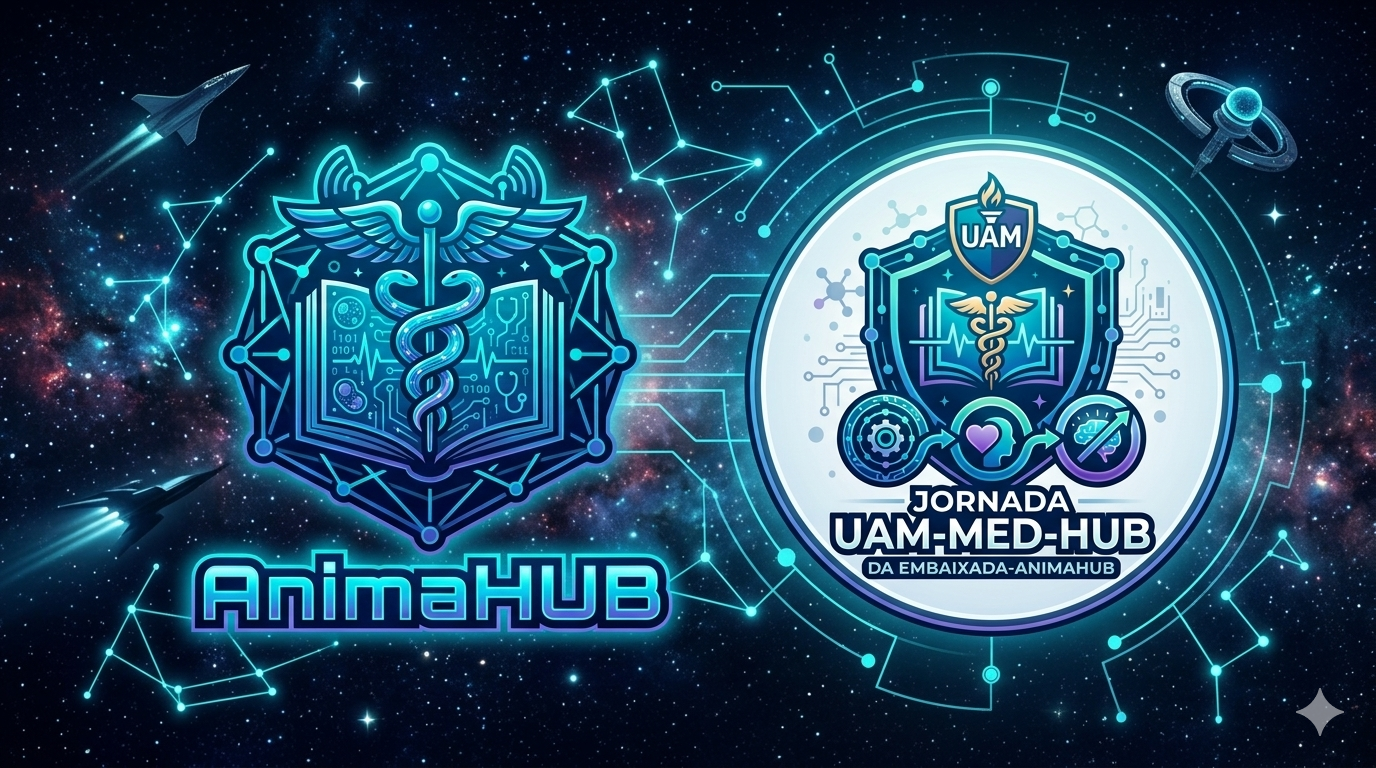
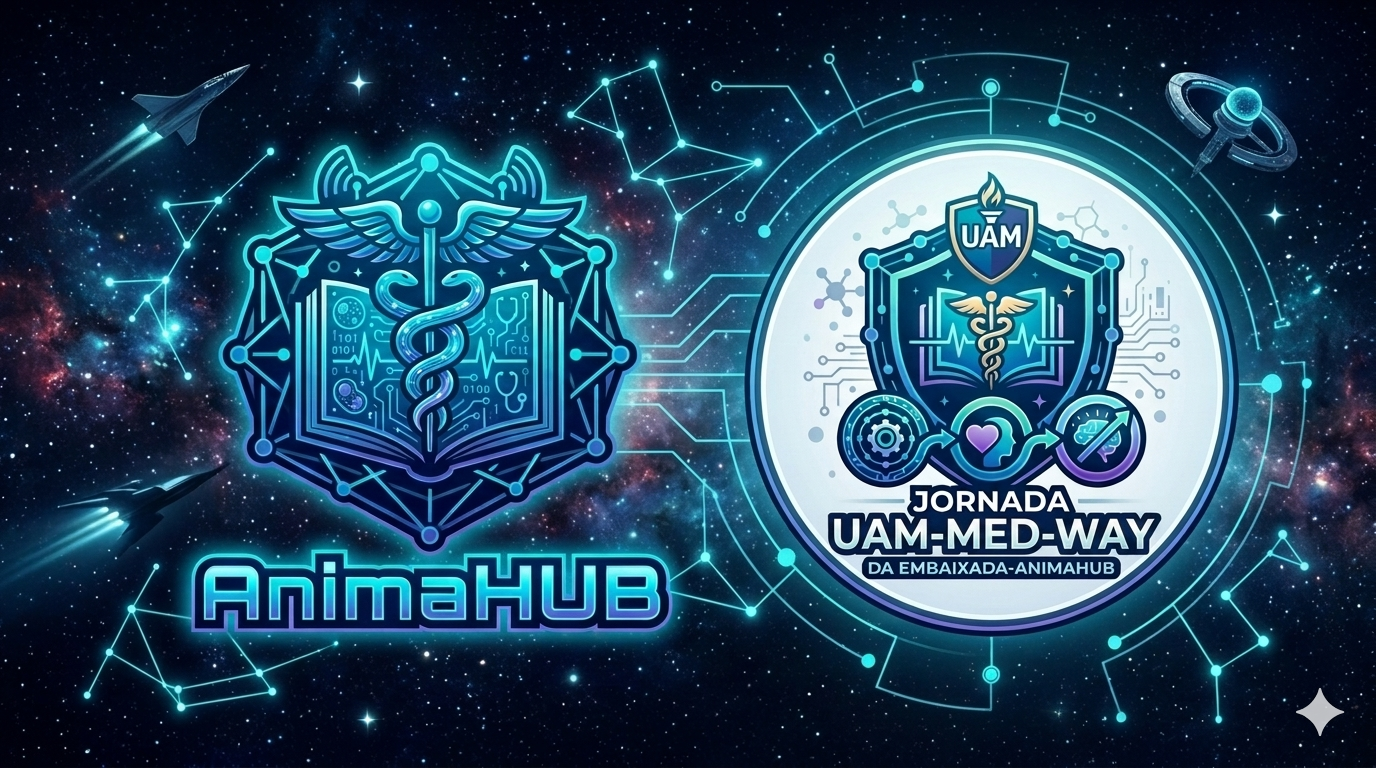
add UAM-MED-WAY more details on README.md

diff --git a/README.md b/README.md
@@ -1,4 +1,25 @@
-![IMAGEM COVER DA JORNADA](UAM-MED-WAY-LOGO.png)
+![IMAGEM COVER DA JORNADA](assets/banners/cover1.png)
 
 ## Overview:
 UAM-MED-WAY é uma coletânea de portfolios em formato de pdf com conhecimento integrativo
+
+## Author:
+Érik Luís Mendonça Botechia de Jesus Leite<br/>
+Instituição e Curso: Universidade Anhembi Morumbi (UAM) - Medicina<br/>
+E-Mail Acadêmico: <a href="mailto:[email redacted]">[email redacted]</a><br/>
+E-Mail Preferencial: <a href="mailto:[email redacted]">[email redacted]</a><br/>
+Instagram: <a href="https://instagram/ELBotechia">@ELBotechia</a><br/>
+GitHub: <a href="https://github.com/elbotechia">@ELBotechia</a>
+
+
+<div align="center" style="display: flex; flex-flow: row wrap; align-items:center; justify-content: center; background-image: linear-gradient(to bottom, #e2e5eb, #d8d9df, #e4e4eb, #eeecf1, #e9e5ec);">
+  <img src="./assets/banners/cover2.png" width="100%" height="30px" style="object-fit: cover" />
+  <div style="display: flex; flex-flow: row wrap; align-items:center; justify-content: center; padding: 0.25rem; ">
+        <img src="./assets/brand/AnimaHubLogo.png" alt="AnimaLab Logo" height="80px" />
+        <a href="https://vincit.com.br">
+          <img src="https://img.shields.io/badge/Website-Check%20it-blueviolet?style=flat-square" alt="Website" />
+        </a>
+    </div>
+  </table>
+ <img src="./assets/banners/cover2.png" width="100%" height="30px" style="object-fit: cover; opacity: 0.3" />
+</div>